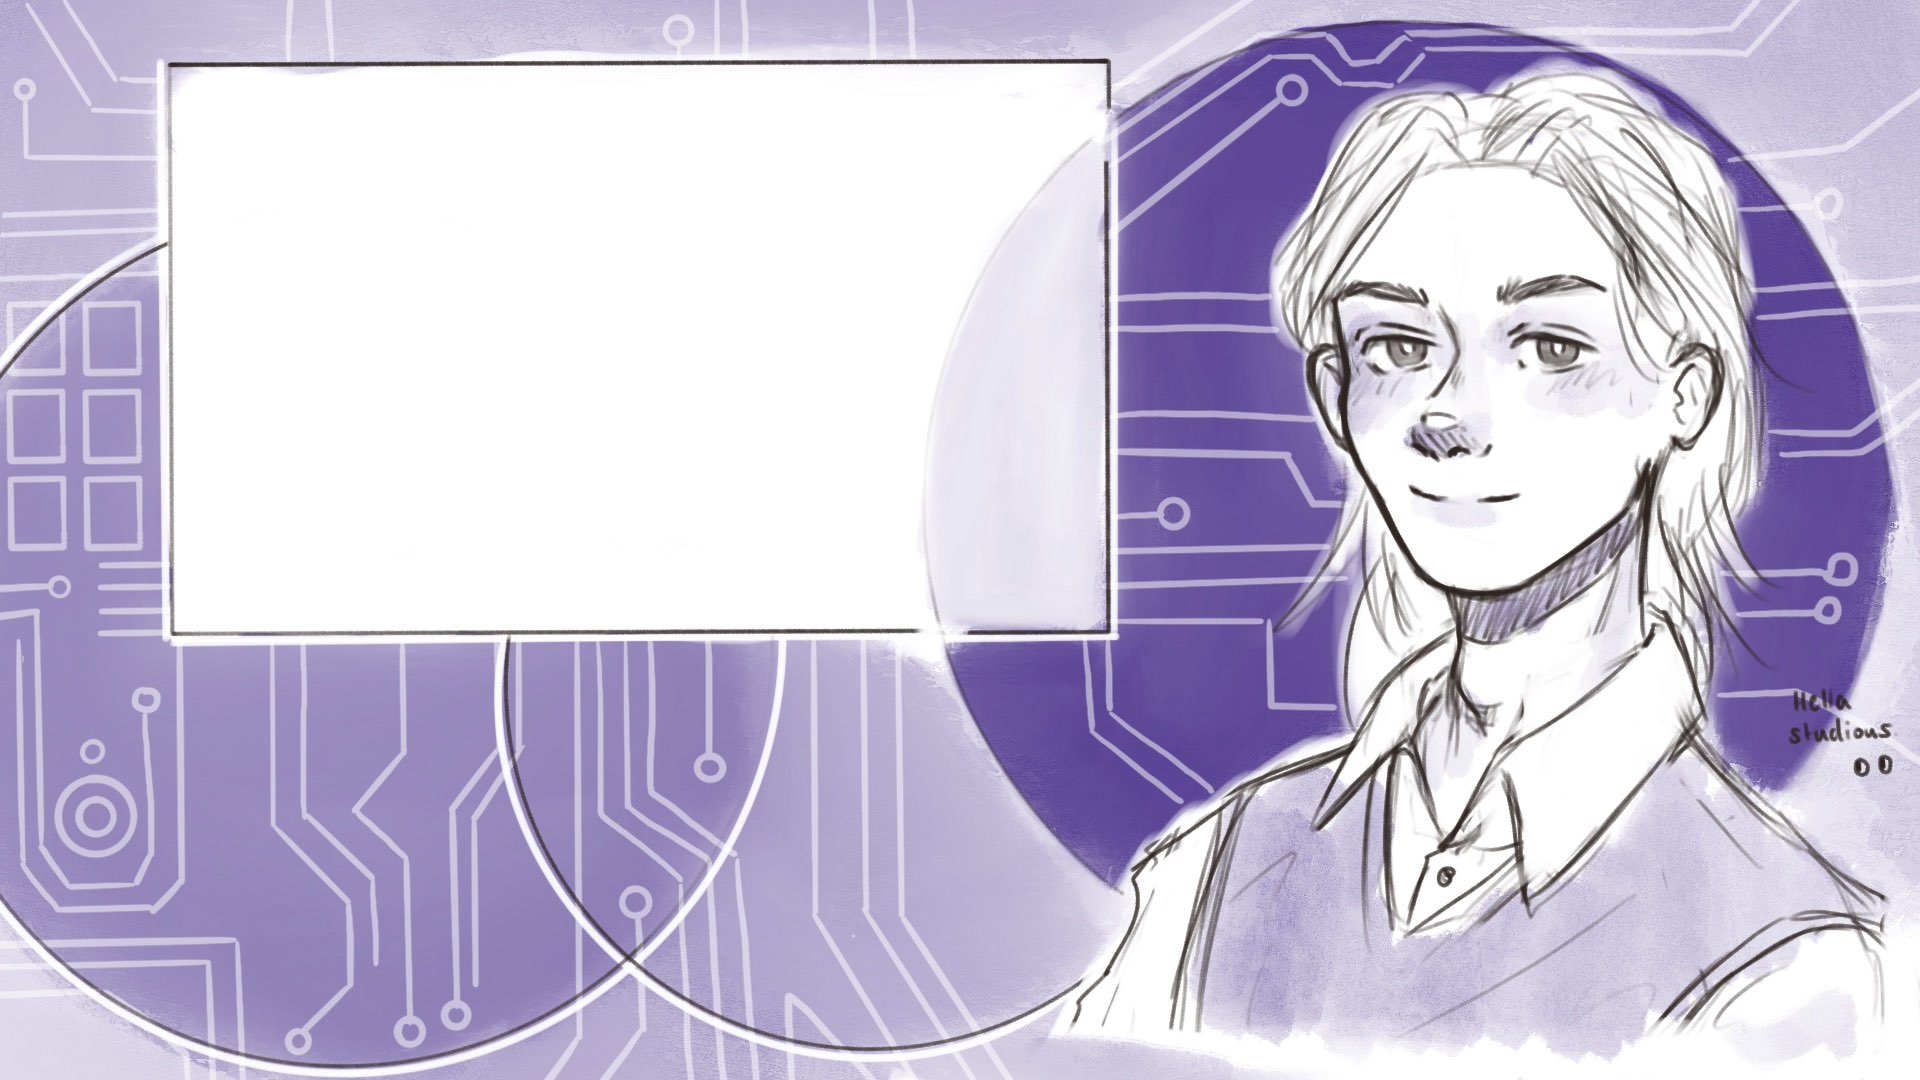
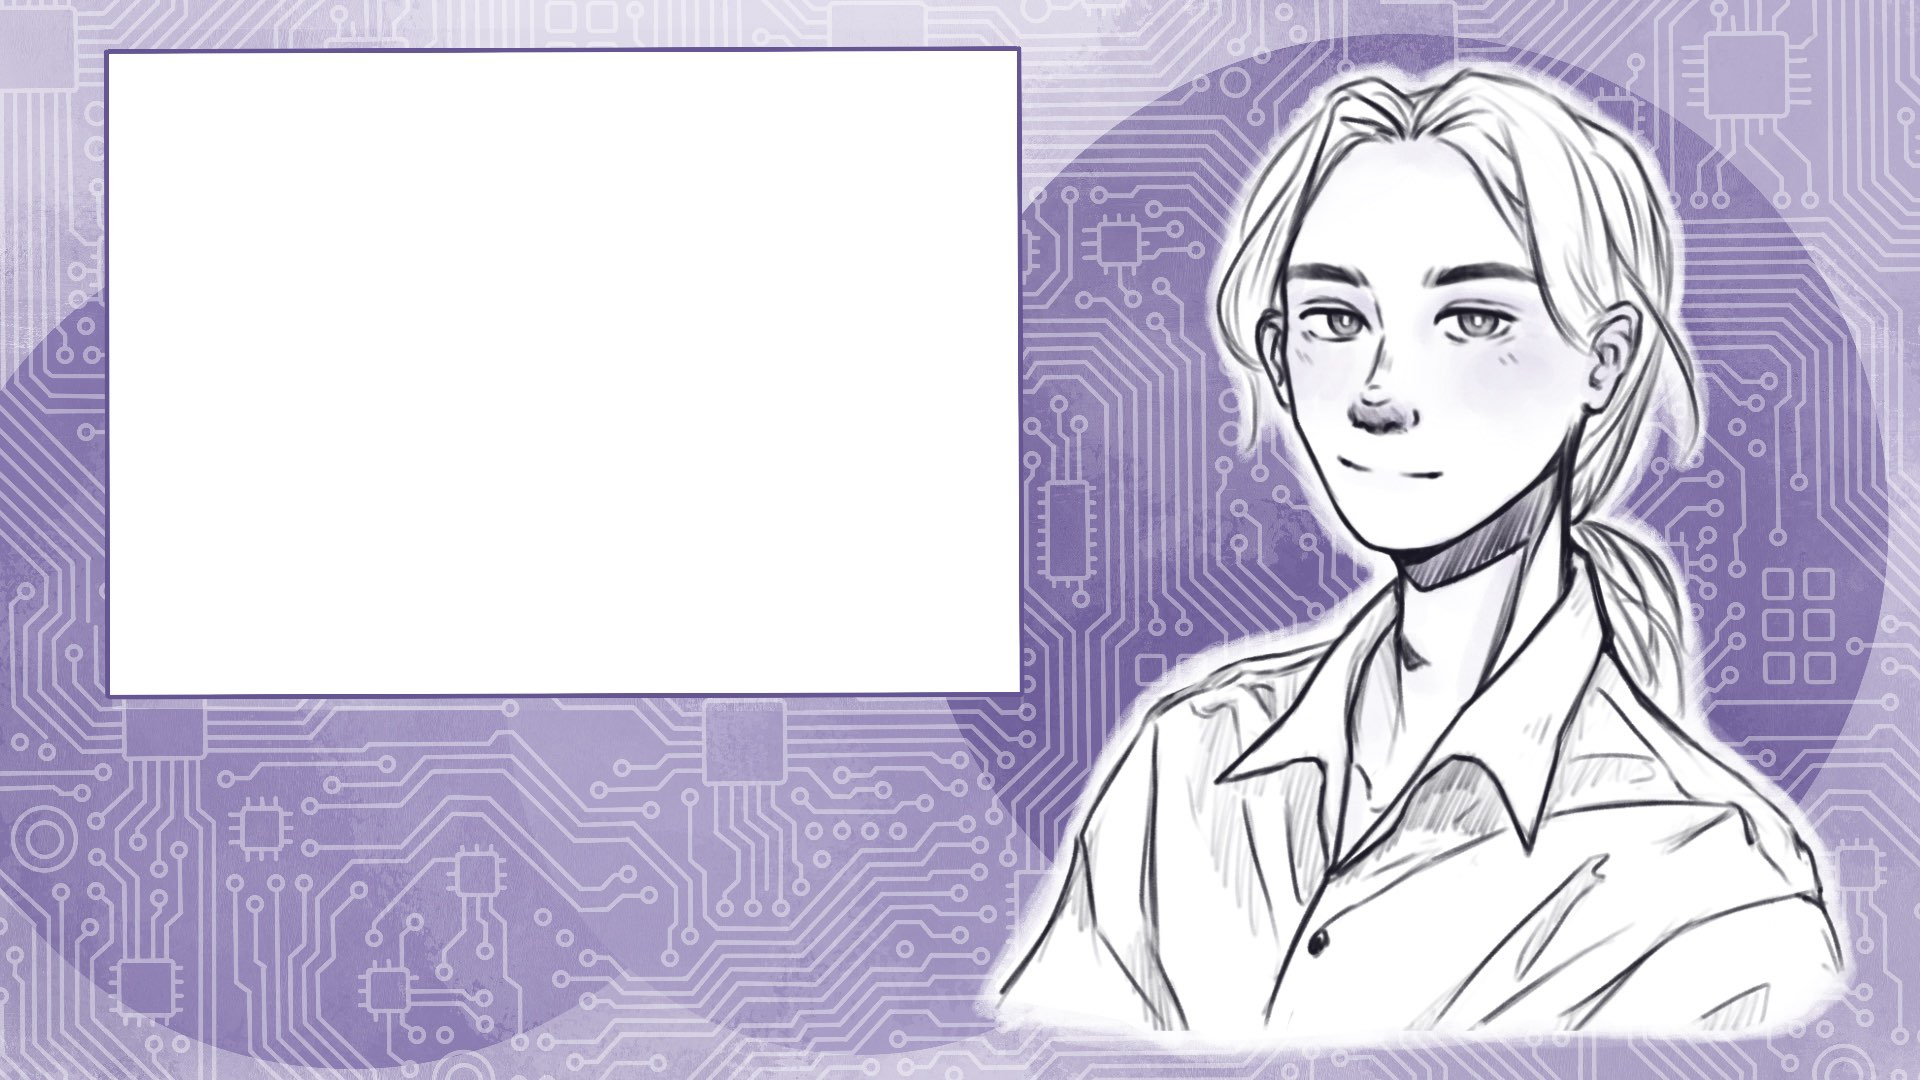
update 1/24/2023 (9:36am)
added different background, added intergraded resume to the navigation

diff --git a/resume intergrated test.html b/resume intergrated test.html
@@ -15,28 +15,25 @@
 
 </head>
 
-<body class="resume"> 
+<body class="resume">
+
     <div class="topnav"> <!-- Navigation Bar-->
         <a href="./index.html">Home</a>
         <a href="./projects.html">Projects</a>
-        <a class="active" href="./resume.html">Resume</a>
+        <a href="./resume.html">Resume</a>
         <a href="./contact.html">Contact</a>
-        <a href="./resume intergrated test.html">Intergrated Resume</a>
-
+        <a class="active" href=./resume intergrated test.html">Intergrated Resume</a>
     </div>
 
     <div class="intro">
         <h1>My Resume</h1>
-       <!-- <iframe src="./static/Joseph Caligiuri's Resume.pdf" type="application/pdf" width="90%" height="1800px"></iframe> -->
     </div>
 
-    <div class="PNG">
-
-       <img src="./static/Resume0.png" width="60%" height="60%"/>
-       <img src="./static/Resume1.png" width="60%" height="60%"/>
-       <img src="./static/resume2.png" width="60%" height="60%"/>
-        
+    <div class="skills">
+        <h2>Joseph A. Caligiuri</h2>
+        <h3>Skills:</h3>
+        <li>Python, html, CSS, C#, Java, and Labview</li>
     </div>
-    
+
+
 </body>
-</html>

diff --git a/static/styles.css b/static/styles.css
@@ -1,7 +1,7 @@
 .index {
     margin: 0;
     font-family: 'Segoe UI', Tahoma, Geneva, Verdana, sans-serif;
-    background-image: url(./Index.jpeg);
+    background-image: url(./index.jpeg);
     padding-top: 30px;
     background-size: 100%;
     background-position: 0px 30px;    
@@ -23,7 +23,7 @@
 .resume {
     margin: 0;
     font-family: 'Segoe UI', Tahoma, Geneva, Verdana, sans-serif;
-    background-image: url(./Resume.jpeg);
+    background-image: url(./background.jpeg);
     padding-top: 30px;
     background-size: 100%;
     background-position: 0px 30px;    
@@ -94,4 +94,10 @@
 
   .PNG{
     text-align: center;
+  }
+
+  .skills{
+    color: #333;
+    text-align: center;
+    text-shadow: 2px, 2px, 3px;
   }

diff --git a/contact.html b/contact.html
@@ -21,6 +21,8 @@
         <a href="./projects.html">Projects</a>
         <a href="./resume.html">Resume</a>
         <a class="active" href="./contact.html">Contact</a>
+        <a href="./resume intergrated test.html">Intergrated Resume</a>
+
     </div>
 
     <div class="intro">

diff --git a/projects.html b/projects.html
@@ -21,6 +21,8 @@
         <a class="active" href="./projects.html">Projects</a>
         <a href="./resume.html">Resume</a>
         <a href="./contact.html">Contact</a>
+        <a href="./resume intergrated test.html">Intergrated Resume</a>
+
     </div>
 
     <div class="intro">

diff --git a/index.html b/index.html
@@ -21,6 +21,8 @@
         <a href="./projects.html">Projects</a>
         <a href="./resume.html">Resume</a>
         <a href="./contact.html">Contact</a>
+        <a href="./resume intergrated test.html">Intergrated Resume</a>
+
     </div>
 
     <div class="intro">
